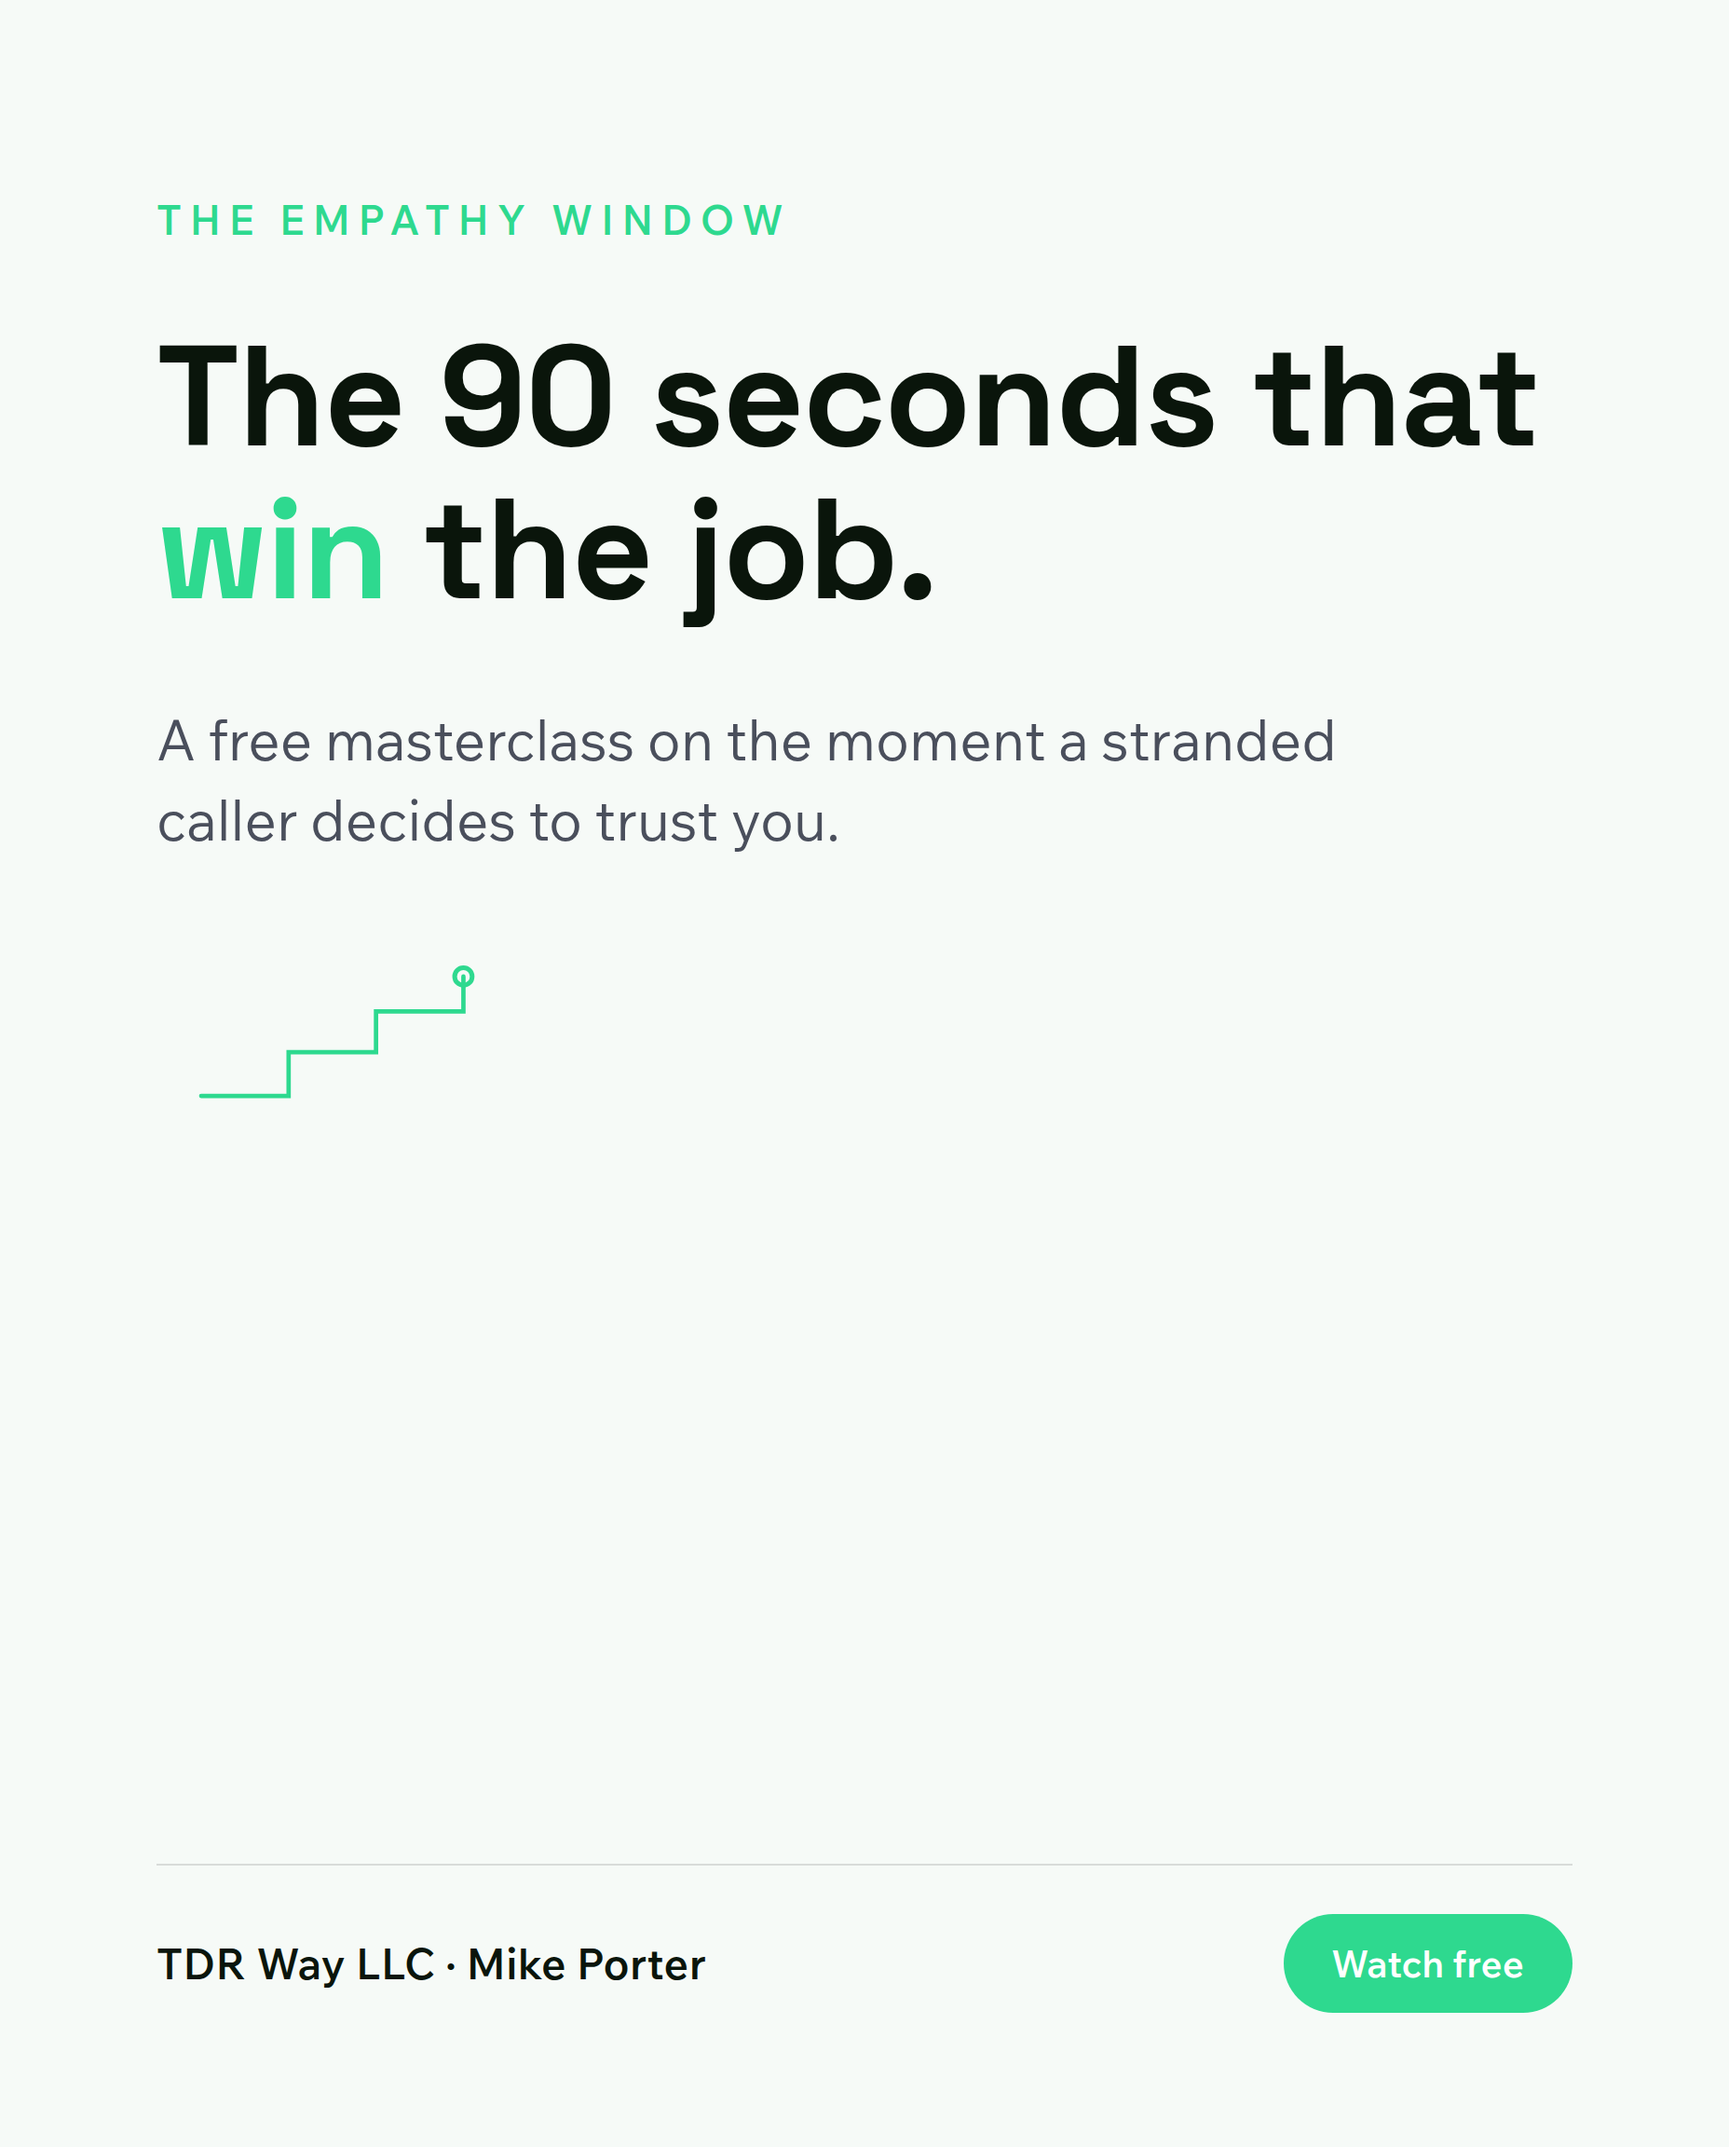
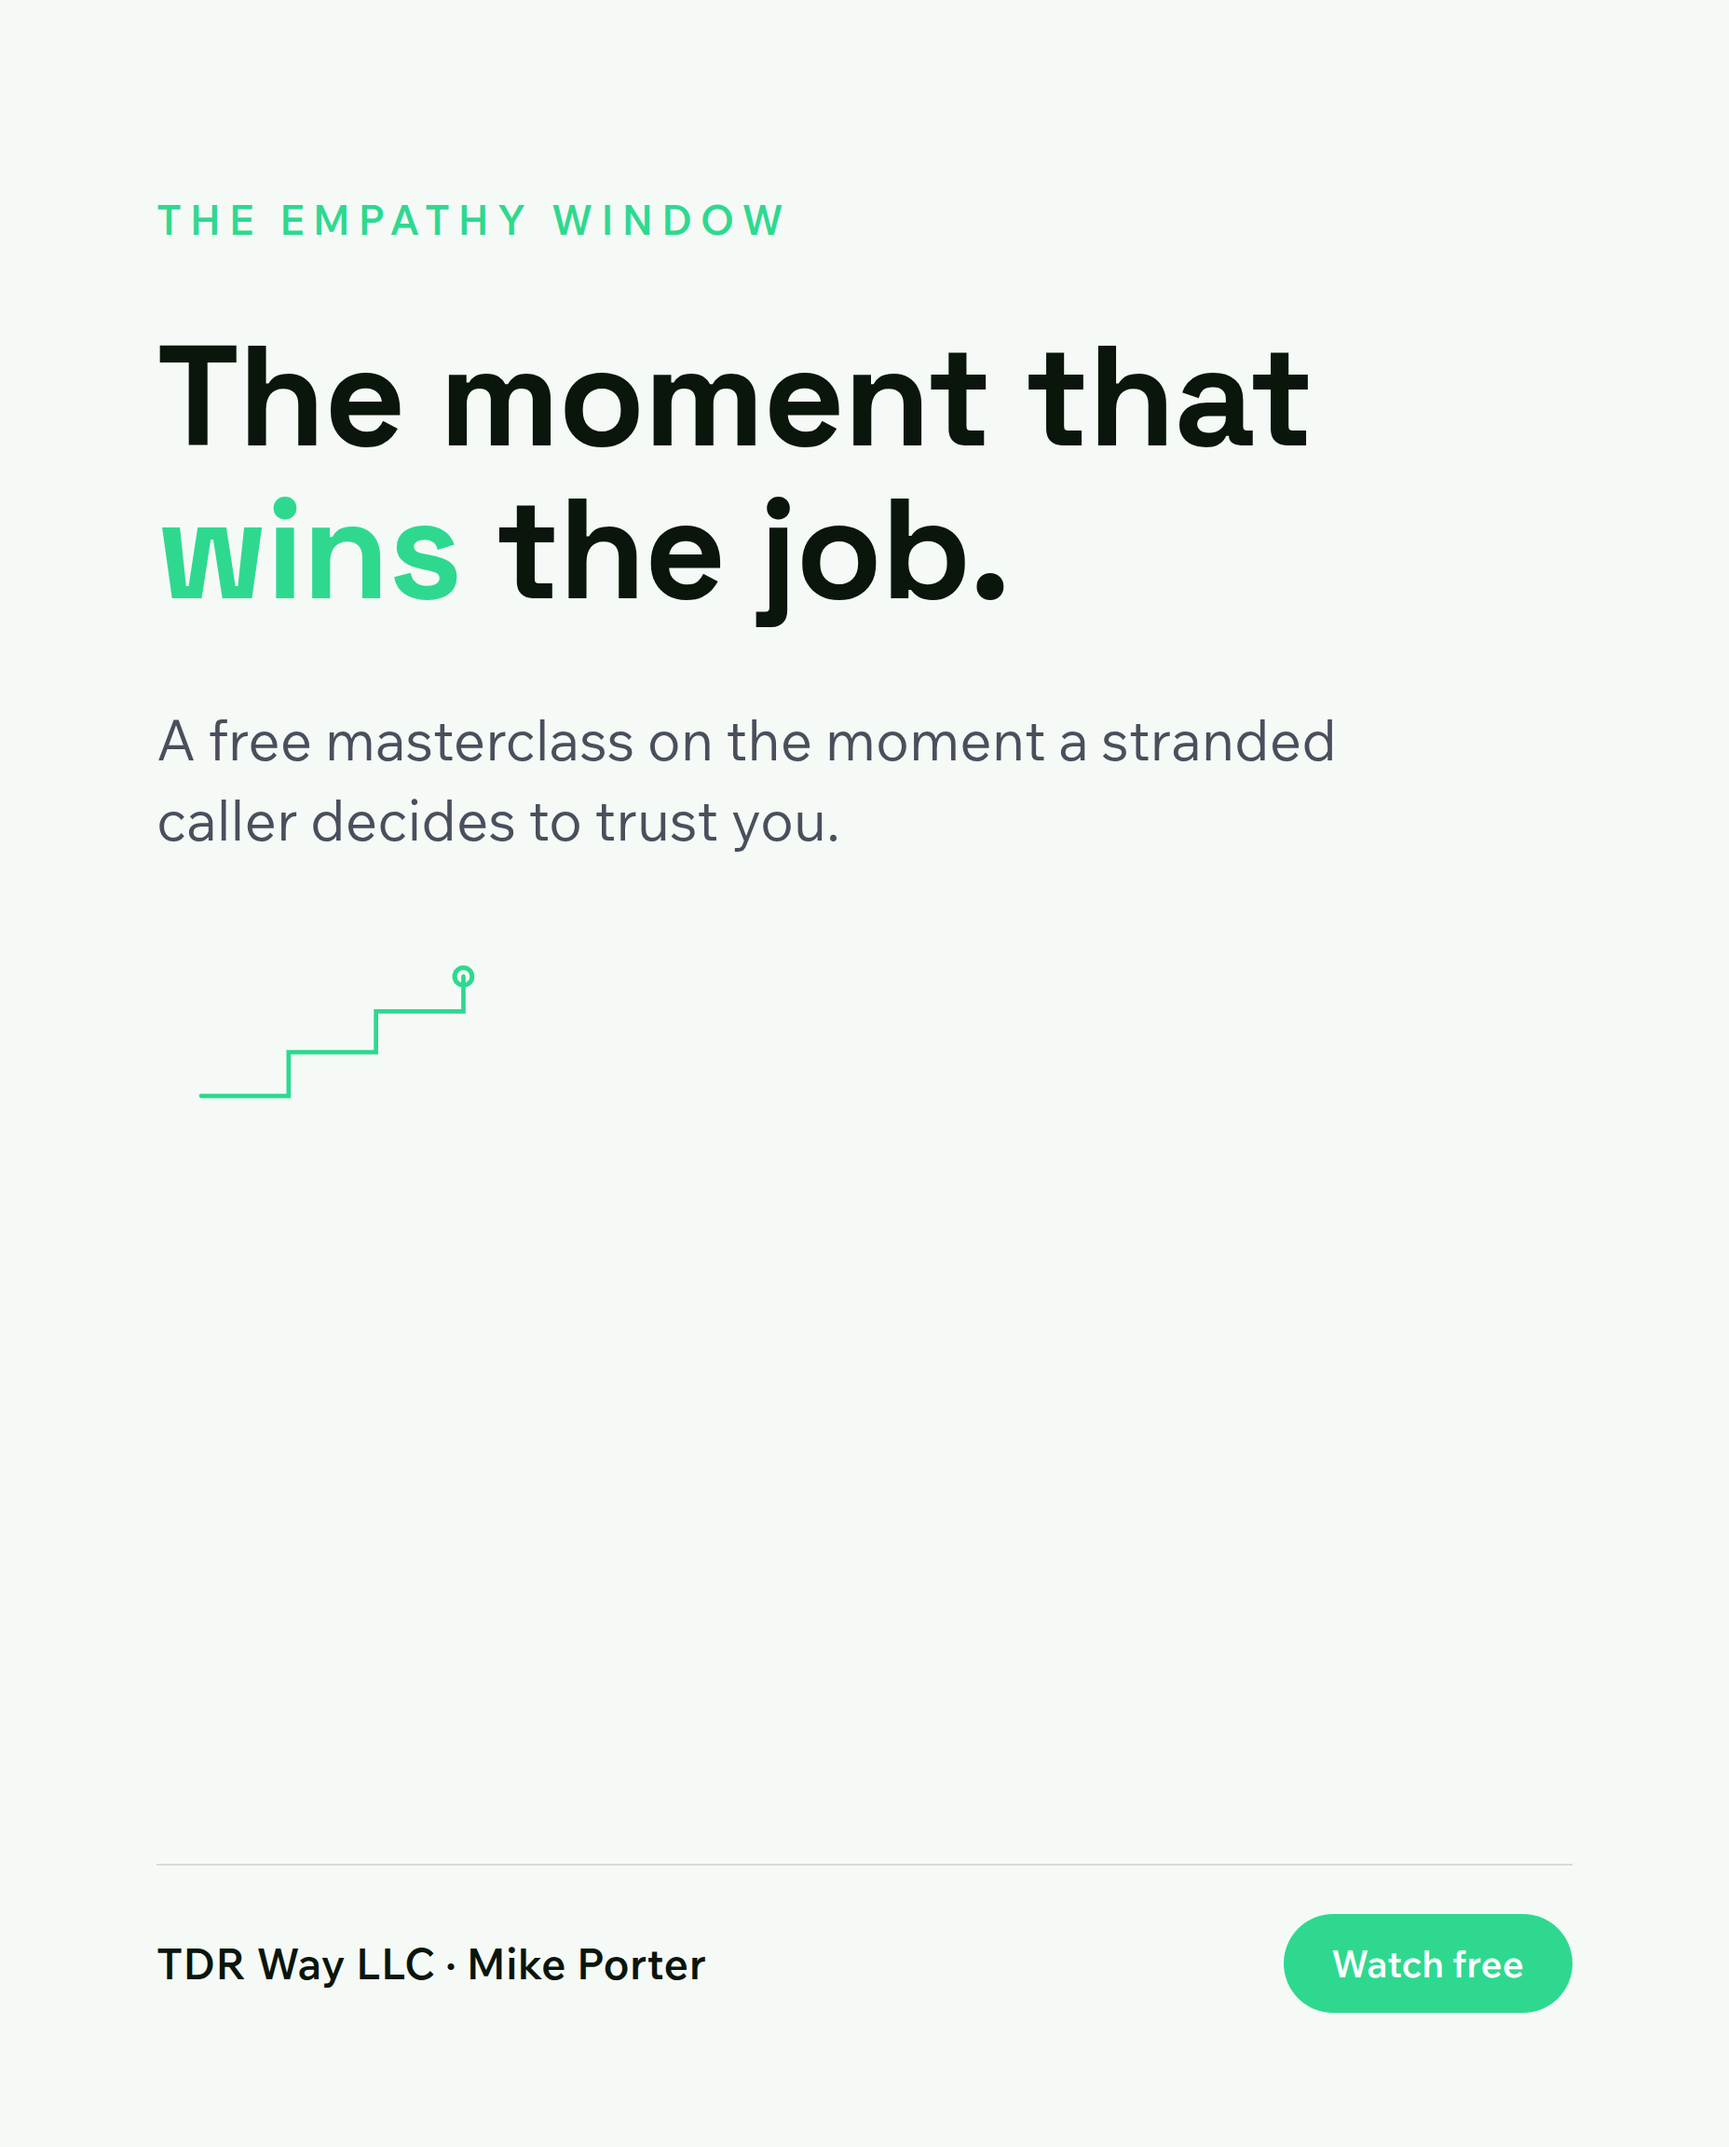
showcase: mike-porter

Changed region(s): [[0.2188, 0.1562, 0.9062, 0.3125]]

diff --git a/mike-porter/index.html b/mike-porter/index.html
@@ -84,7 +84,7 @@
     <p>Four ad directions in your own colors, built from STEEP, written to stop a towing company owner mid-scroll.</p>
     <div class="ad-grid">
       <img src="/mike-porter/ad01.png" alt="Ad concept: Answering calls without losing jobs">
-      <img src="/mike-porter/ad02.png" alt="Ad concept: The 90 seconds that win the job">
+      <img src="/mike-porter/ad02.png" alt="Ad concept: The moment that wins the job">
       <img src="/mike-porter/ad03.png" alt="Ad concept: Built by 30 years in towing">
       <img src="/mike-porter/ad04.png" alt="Ad concept: The STEEP Call Masterclass invitation">
     </div>
@@ -109,7 +109,7 @@
         <tr class="hl"><td>New revenue added each month</td><td>~$5,400 / mo</td><td>~$14,400 / mo</td></tr>
       </tbody>
     </table>
-    <p class="fn">The revenue row applies the $6,000 benchmark to the precise booked-conversation estimate (0.9 and 2.4 before rounding for display above). One accepted owner most months comes close to covering the spend on its own, and the Weekly Mastermind and STEEP training stack on top as separate, additional revenue this table doesn't count.</p>
+    <p class="fn">Each new accepted owner is modeled as one $6,000 annual 20 Group membership, counted as revenue added in the month they join, using the precise booked-conversation estimate (0.9 and 2.4 before rounding for display above) rather than the rounded whole number. One accepted owner most months comes close to covering that month's spend on its own, and the Weekly Mastermind and STEEP training stack on top as separate, additional revenue this table doesn't count.</p>
   </div>
 
   <div class="section">

diff --git a/mike-porter/deck.html b/mike-porter/deck.html
@@ -102,7 +102,7 @@ const S = [
  {t:'normal',k:'Why Mike Porter',title:'Thirty-plus years running the trucks, not consulting from outside them.',body:'Mike Porter has run Newhouse Towing for over 30 years, and built STEEP himself out of his own dispatch operation\'s real problem. He is billed as a business coach at the Towing & Recovery Management Summit, and leads the Profitowable 20 Group and a Weekly Mastermind for towing company owners.'},
 
  {t:'section',idx:'Your Next Step',title:'Bring STEEP To Your Dispatch Desk'},
- {t:'normal',k:'How it\'s delivered',title:'STEEP training, the Profitowable 20 Group, or the Weekly Mastermind.',body:'TDR Way runs STEEP dispatch-sales training directly with your team, alongside the Profitowable 20 Group\'s financial-analysis session, two on-site business reviews a year, and monthly accountability calls, plus a standing Weekly Mastermind for towing owners.'},
+ {t:'normal',k:'How it\'s delivered',title:'STEEP training, the Profitowable 20 Group, and the Weekly Mastermind.',body:'TDR Way runs STEEP dispatch-sales training directly with your team, alongside the Profitowable 20 Group\'s financial-analysis session, two on-site business reviews a year, and monthly accountability calls, plus a standing Weekly Mastermind for towing owners.'},
  {t:'cta',title:'Ready to build a dispatch team that wins the call?',chips:['Book a Time','TDR Way Training'],disc:'Educational content for towing company owners and their teams. No income or sales result is guaranteed. Results vary by company, market, and team.'},
 ];
 
